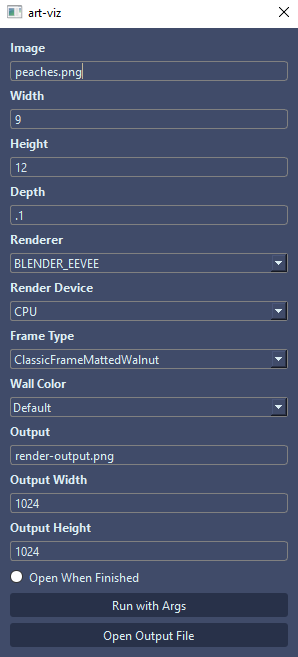
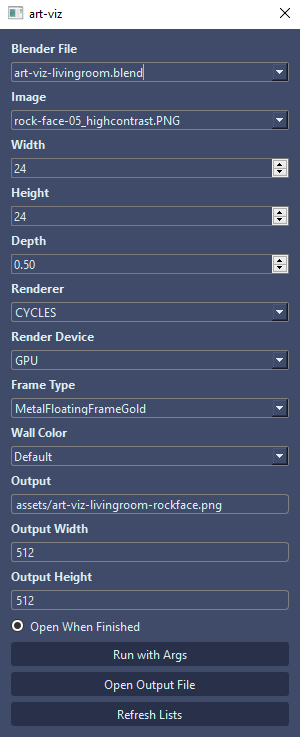
Update readme

Changed region(s): [[0.0, 0.0, 1.0, 0.9741], [0.906, 0.1522, 0.9664, 0.1826], [0.906, 0.0913, 0.9664, 0.1218]]

diff --git a/README.md b/README.md
@@ -24,7 +24,7 @@ Preview your art in different frames with photorealistic simulated light and phy
     - [Output Height](#output-height)
     - [Render Device](#render-device)
   - [🎁 Qt Interface](#-qt-interface)
-  - [Blender File](#blender-file)
+  - [Blender File (Environment)](#blender-file-environment)
     - [Customize Your Own Environment](#customize-your-own-environment)
   - [❕ Tips](#-tips)
 
@@ -284,9 +284,9 @@ For convenience, I've added a script that will display a user interface for fast
 
 Run in the repository root directory with:
 
-## Blender File
+## Blender File (Environment)
 
-I've added a field to the top of the Qt called Blend File, which selects the blender file in which it will be running the render script and args. 
+I've added a field to the top of the Qt called 'Blender File', which selects the blender file in which it will be running the render script and args. This essentially just updates the .blend file path in the render command.
 
 You can still set the wall color, frame type, etc in each environment as in the examples below.
 
